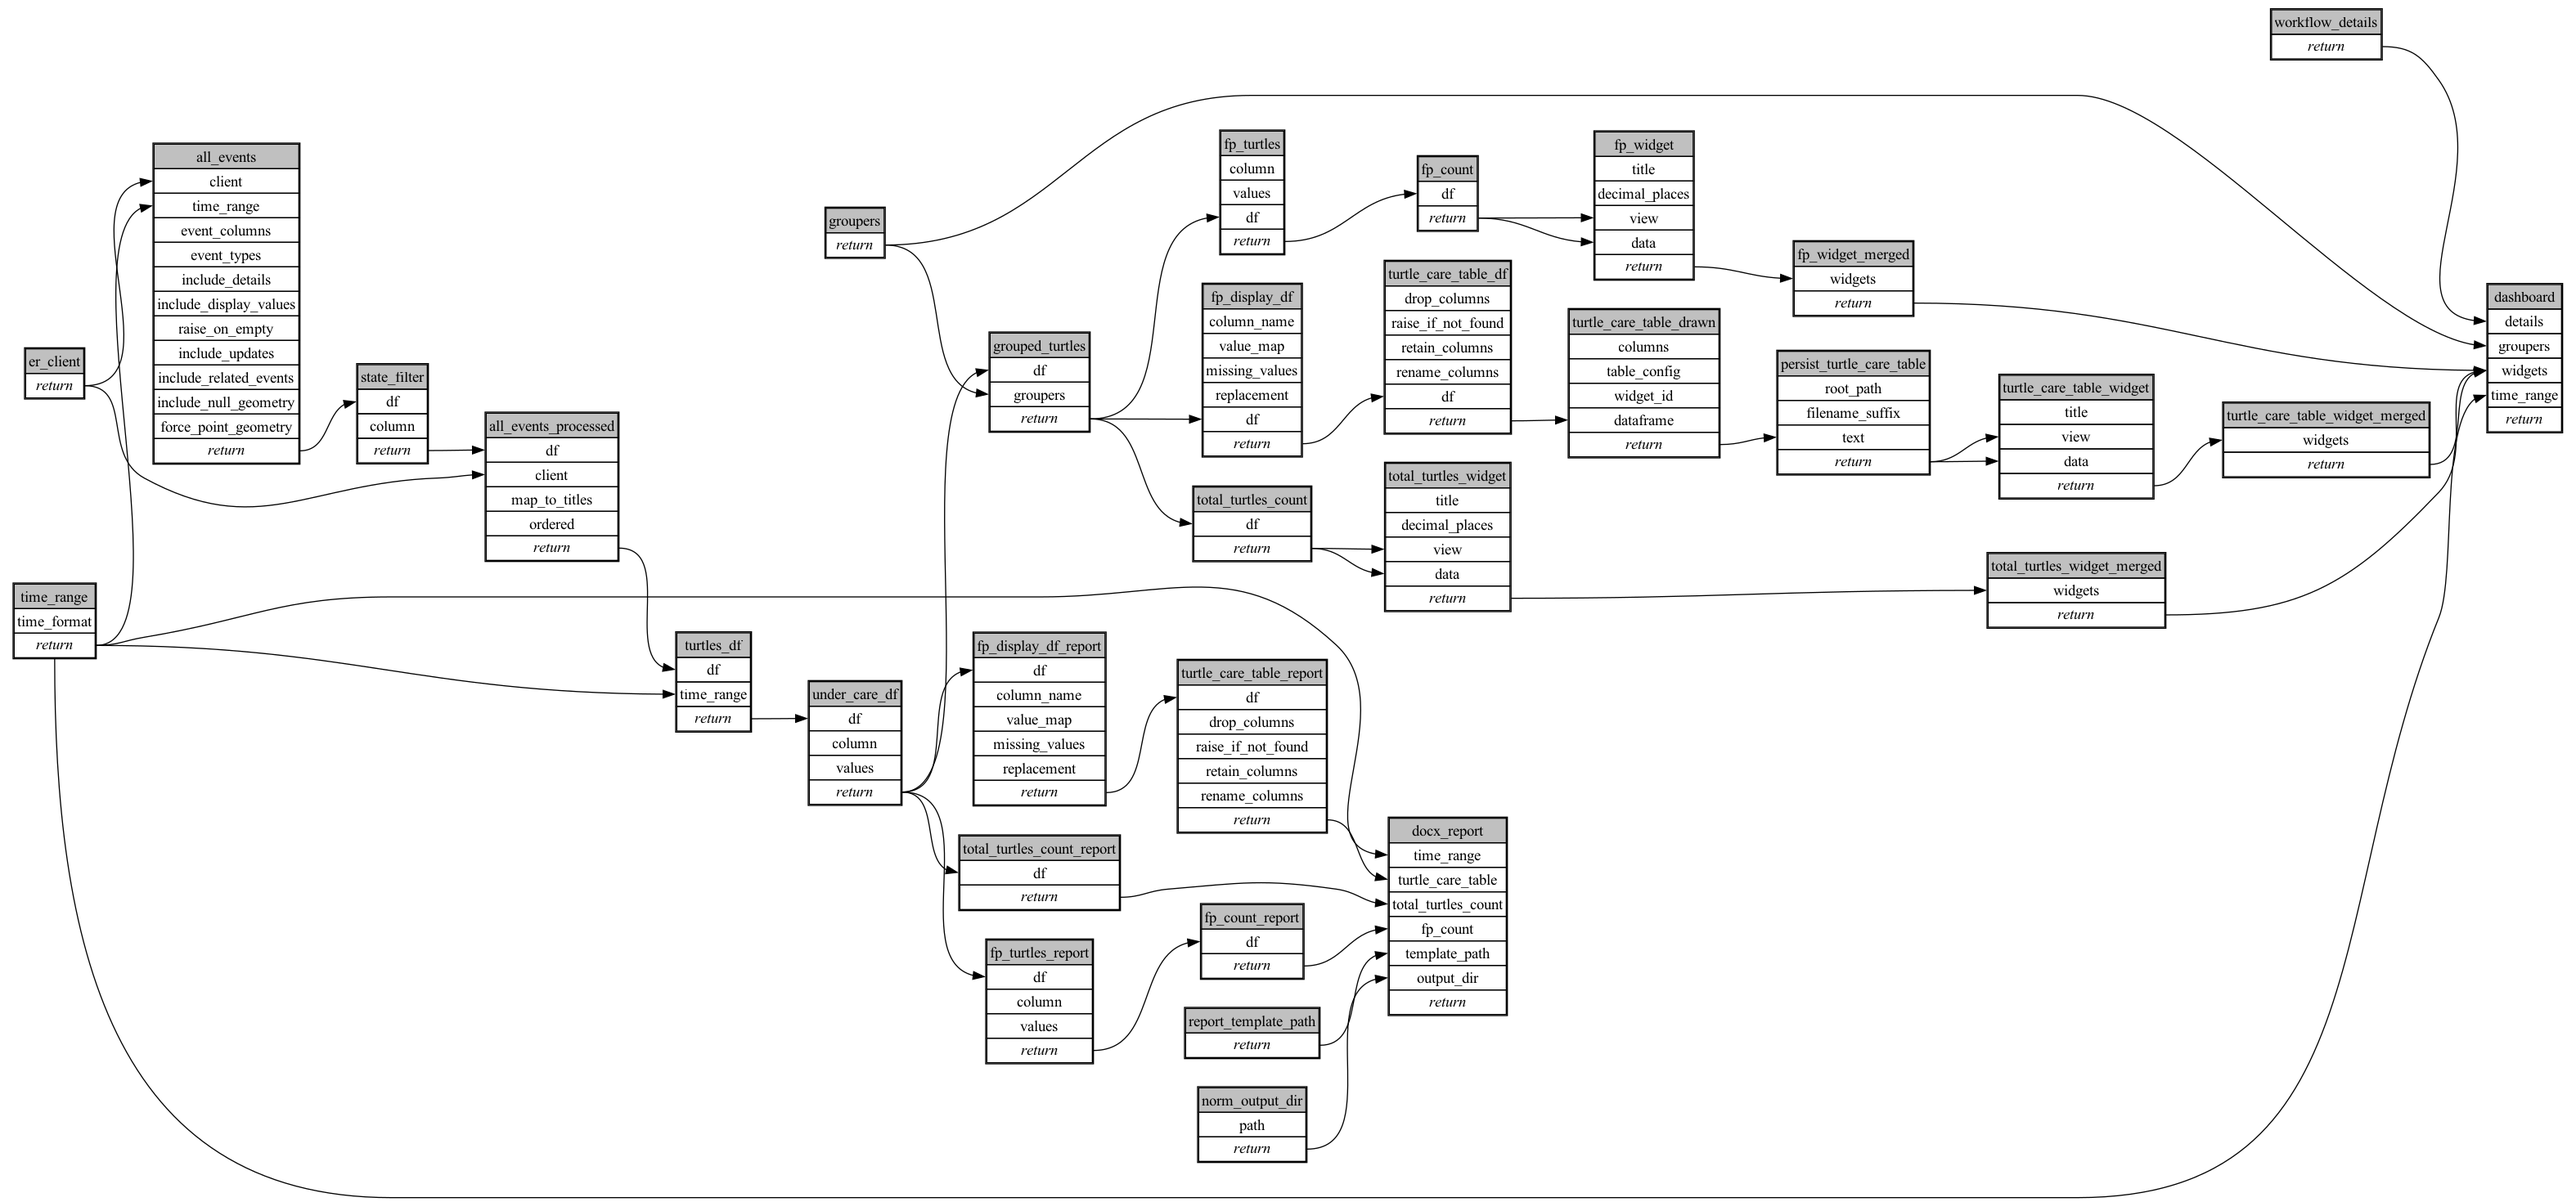
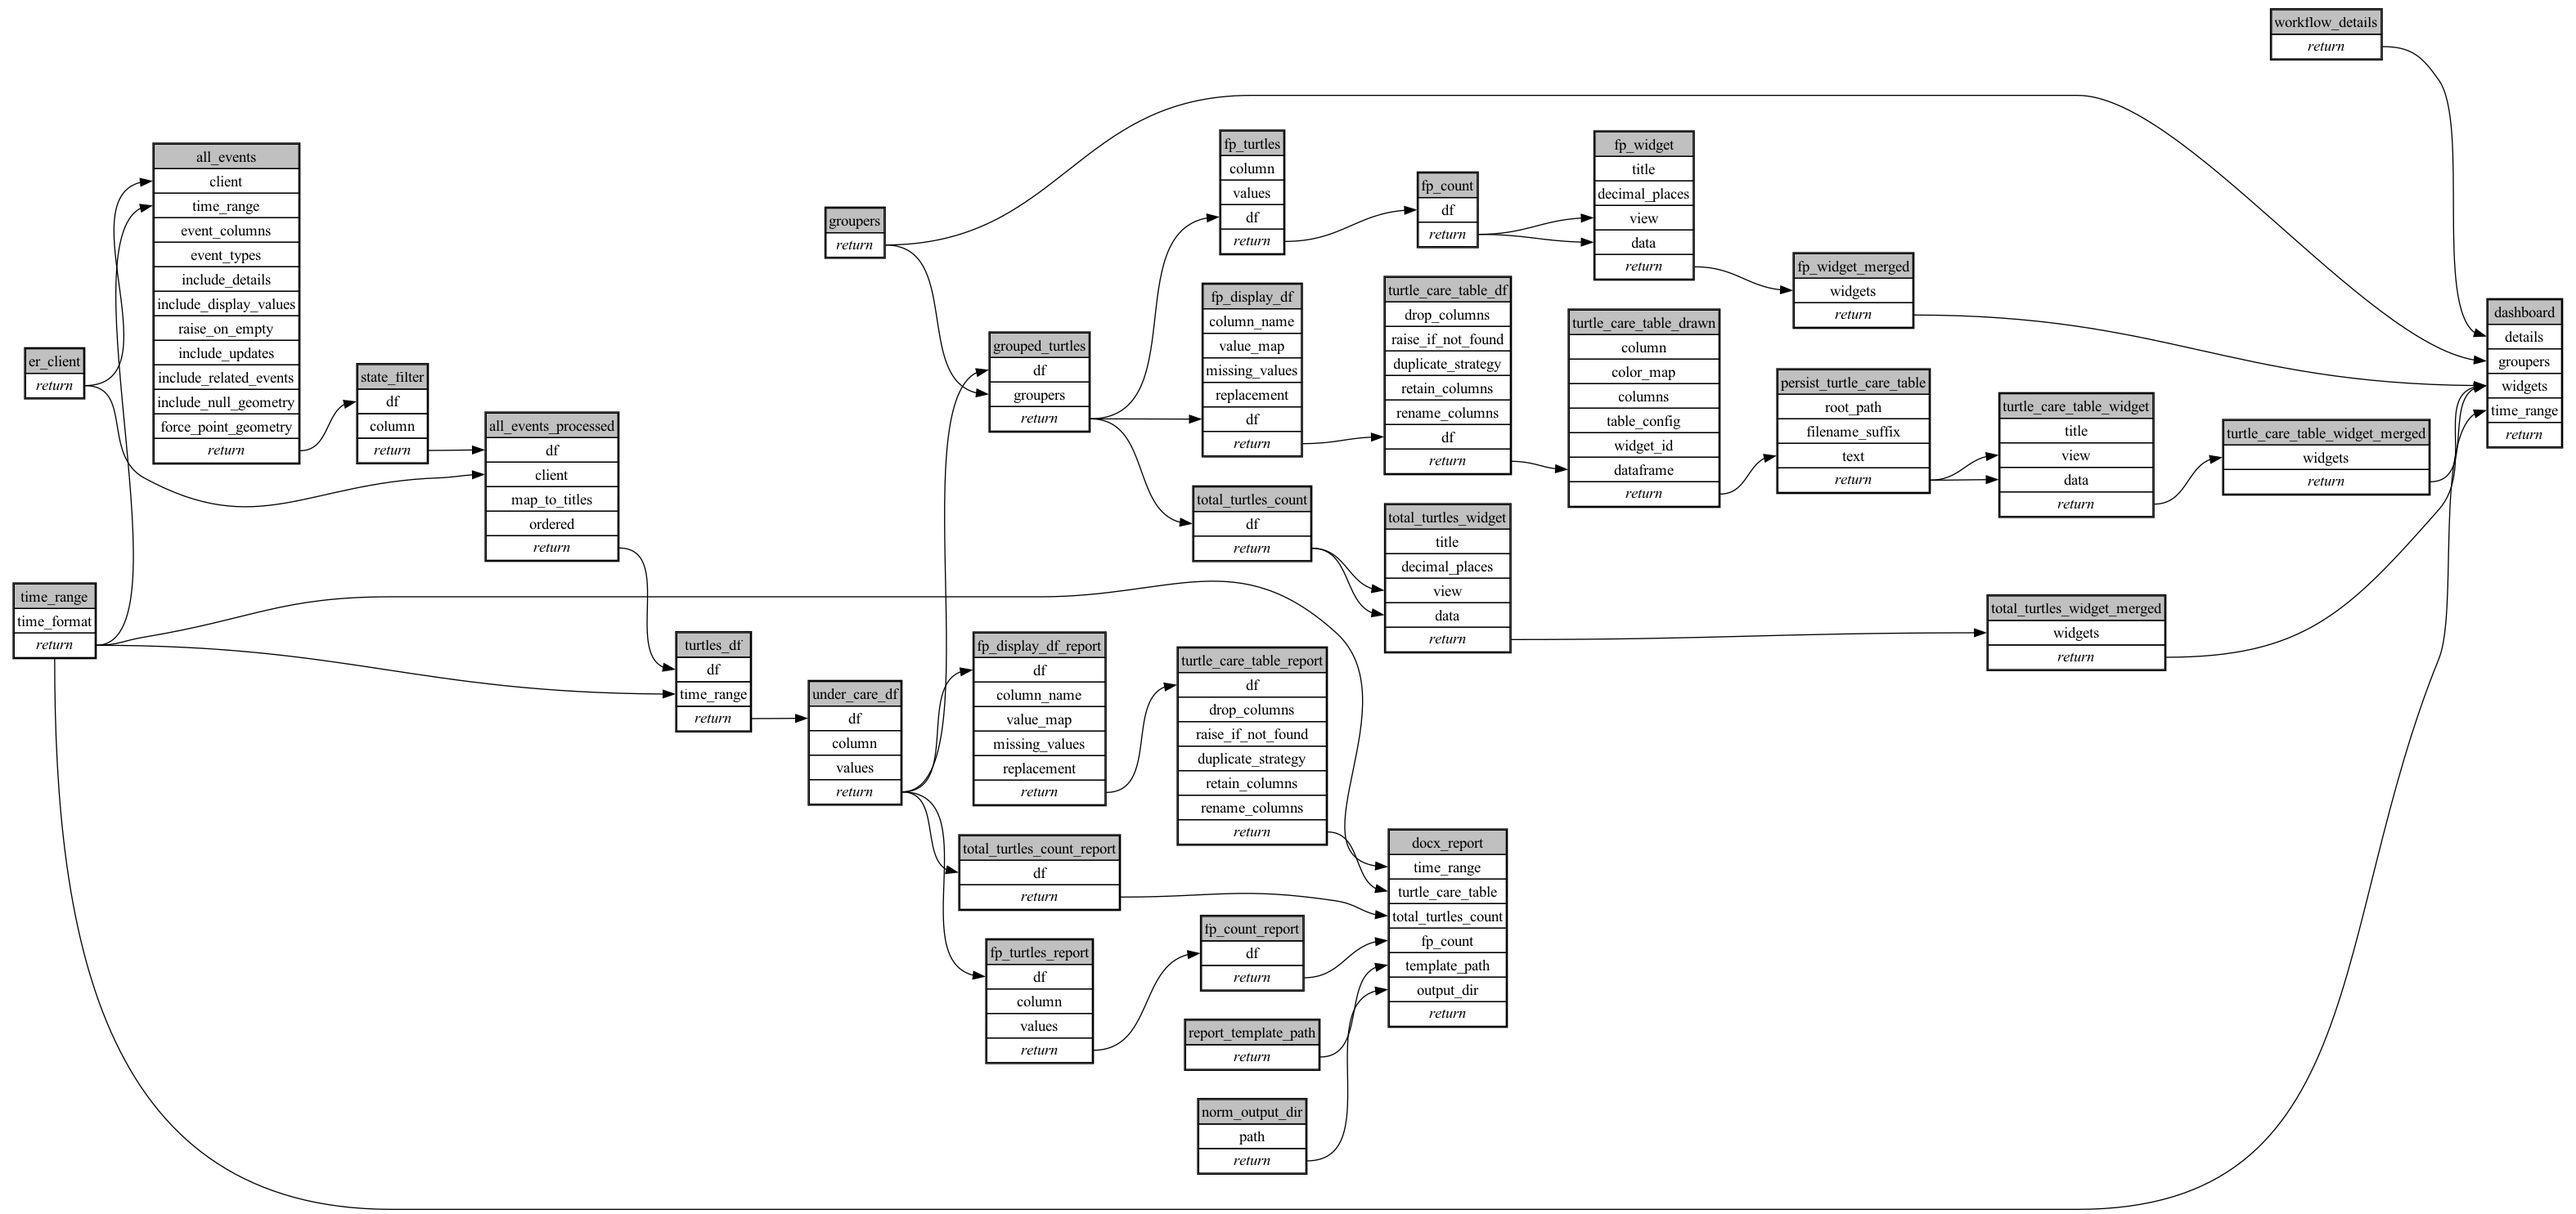
Hide duplicate_strategy and unused tag-coloring fields from the setup form
duplicate_strategy (map_columns) and column/color_map (draw_table_with_cell_colors,
unused here since turtle_care has no status-like column to color) were
showing up in the compiled form despite having no real configuration
purpose for this workflow; now set explicitly via partial.

diff --git a/ecoscope-workflows-turtles-under-care-workflow/ecoscope_workflows_turtles_under_care_workflow/dags/run_sequential.py b/ecoscope-workflows-turtles-under-care-workflow/ecoscope_workflows_turtles_under_care_workflow/dags/run_sequential.py
@@ -443,6 +443,7 @@ def main(params: dict[str, Any], validate_params_schema: bool = True):
         .partial(
             drop_columns=[],
             raise_if_not_found=True,
+            duplicate_strategy="suffix",
             retain_columns=[
                 "dispositon_location",
                 "turtle_number",
@@ -494,6 +495,8 @@ def main(params: dict[str, Any], validate_params_schema: bool = True):
             unpack_depth=1,
         )
         .partial(
+            column=None,
+            color_map=None,
             columns=None,
             table_config={
                 "enable_sorting": True,
@@ -661,6 +664,7 @@ def main(params: dict[str, Any], validate_params_schema: bool = True):
             df=fp_display_df_report,
             drop_columns=[],
             raise_if_not_found=True,
+            duplicate_strategy="suffix",
             retain_columns=[
                 "dispositon_location",
                 "turtle_number",

diff --git a/ecoscope-workflows-turtles-under-care-workflow/ecoscope_workflows_turtles_under_care_workflow/dags/run_sequential_mock_io.py b/ecoscope-workflows-turtles-under-care-workflow/ecoscope_workflows_turtles_under_care_workflow/dags/run_sequential_mock_io.py
@@ -462,6 +462,7 @@ def main(params: dict[str, Any], validate_params_schema: bool = True):
         .partial(
             drop_columns=[],
             raise_if_not_found=True,
+            duplicate_strategy="suffix",
             retain_columns=[
                 "dispositon_location",
                 "turtle_number",
@@ -513,6 +514,8 @@ def main(params: dict[str, Any], validate_params_schema: bool = True):
             unpack_depth=1,
         )
         .partial(
+            column=None,
+            color_map=None,
             columns=None,
             table_config={
                 "enable_sorting": True,
@@ -680,6 +683,7 @@ def main(params: dict[str, Any], validate_params_schema: bool = True):
             df=fp_display_df_report,
             drop_columns=[],
             raise_if_not_found=True,
+            duplicate_strategy="suffix",
             retain_columns=[
                 "dispositon_location",
                 "turtle_number",

diff --git a/ecoscope-workflows-turtles-under-care-workflow/README.md b/ecoscope-workflows-turtles-under-care-workflow/README.md
@@ -5,8 +5,8 @@
 
 ```yaml
 # fingerprint:
-artifacts_sha256_basic: 677c8b83b0cff6425f17414233df4c6bdd34021a4228204aa3e7b3bee1f862b1
-artifacts_sha256_strict: 9e2cae54134a5e91807bf8b4ed9c2486a63a961ff27fec7efffe80ba0e2ae368
+artifacts_sha256_basic: 3babdadea63f6115b7d3f2b6e5bf0e33fd314afa6414ee92f069466459064849
+artifacts_sha256_strict: 06e4d733f8317ad0340f71f747272329c8a5f9bc4e62811ea08a92ccc6b0d5c1
 installed_requirements:
 - channel: https://repo.prefix.dev/ecoscope-workflows/
   name: ecoscope-platform
@@ -20,8 +20,8 @@ installed_requirements:
 - channel: https://repo.prefix.dev/ecoscope-workflows-custom/
   name: ecoscope-workflows-ext-curacao
   version: {version: ==0.0.7}
-params_sha256: 1f4910d97a3662fc8cbbfcdb1e48c38986261066616de585eda4322bf1f24c2b
-spec_sha256: 5bcdda279d8a9330fb2253522f8f161ecf62187411708af79af207492f452f6e
+params_sha256: 9e1512aaca0e349da675029b486345683393d92030b5fb5249b18420a338a3b6
+spec_sha256: 7584d397f0bcf103e3153ffc589888adfe43328297d7b218a51e253611ef8451
 
 ```
 
